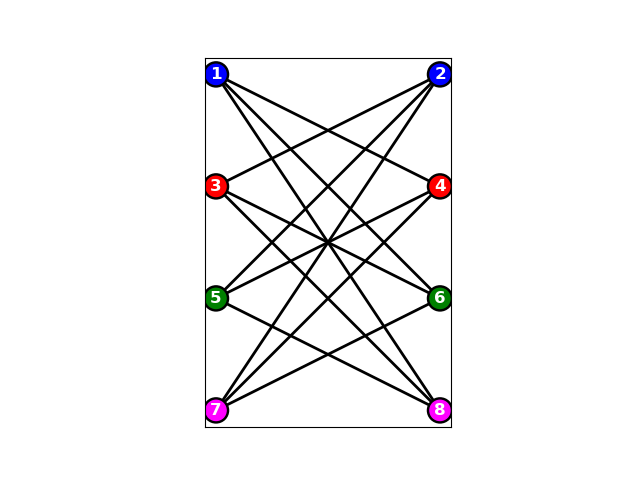
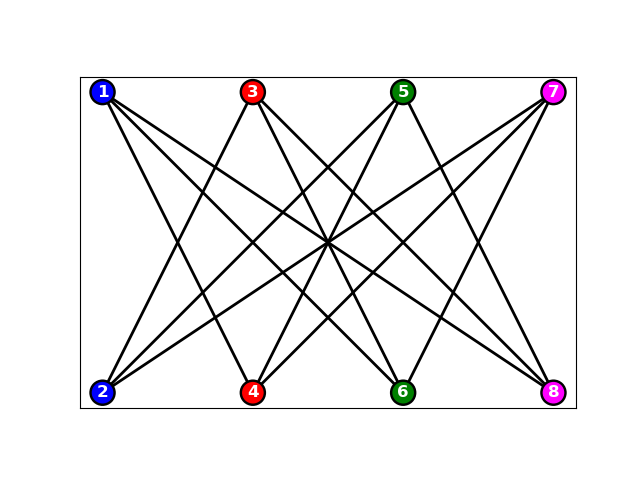
Rotated Bipartite-Graph ones

diff --git a/Code/shared_code.py b/Code/shared_code.py
@@ -30,8 +30,8 @@ bipartite_edges = [
     ('C', 'E'), ('C', 'F'), ('C', 'H'), ('D', 'E'), ('D', 'F'), ('D', 'G')
 ]
 
-bipartite_pos = {'A': (-1, 0), 'B': (-1, -1), 'C': (-1, -2), 'D': (-1, -3),
-                 'E': (1, 0), 'F': (1, -1), 'G': (1, -2), 'H': (1, -3)}
+bipartite_pos = {'A': (0, 1), 'B': (1, 1), 'C': (2, 1), 'D': (3, 1),
+                 'E': (0, -1), 'F': (1, -1), 'G': (2, -1), 'H': (3, -1)}
 
 dsatur_edges = [
     ('A', 'B'), ('A', 'C'), ('A', 'D'), ('D', 'E'), ('E', 'F'), ('F', 'G'),
